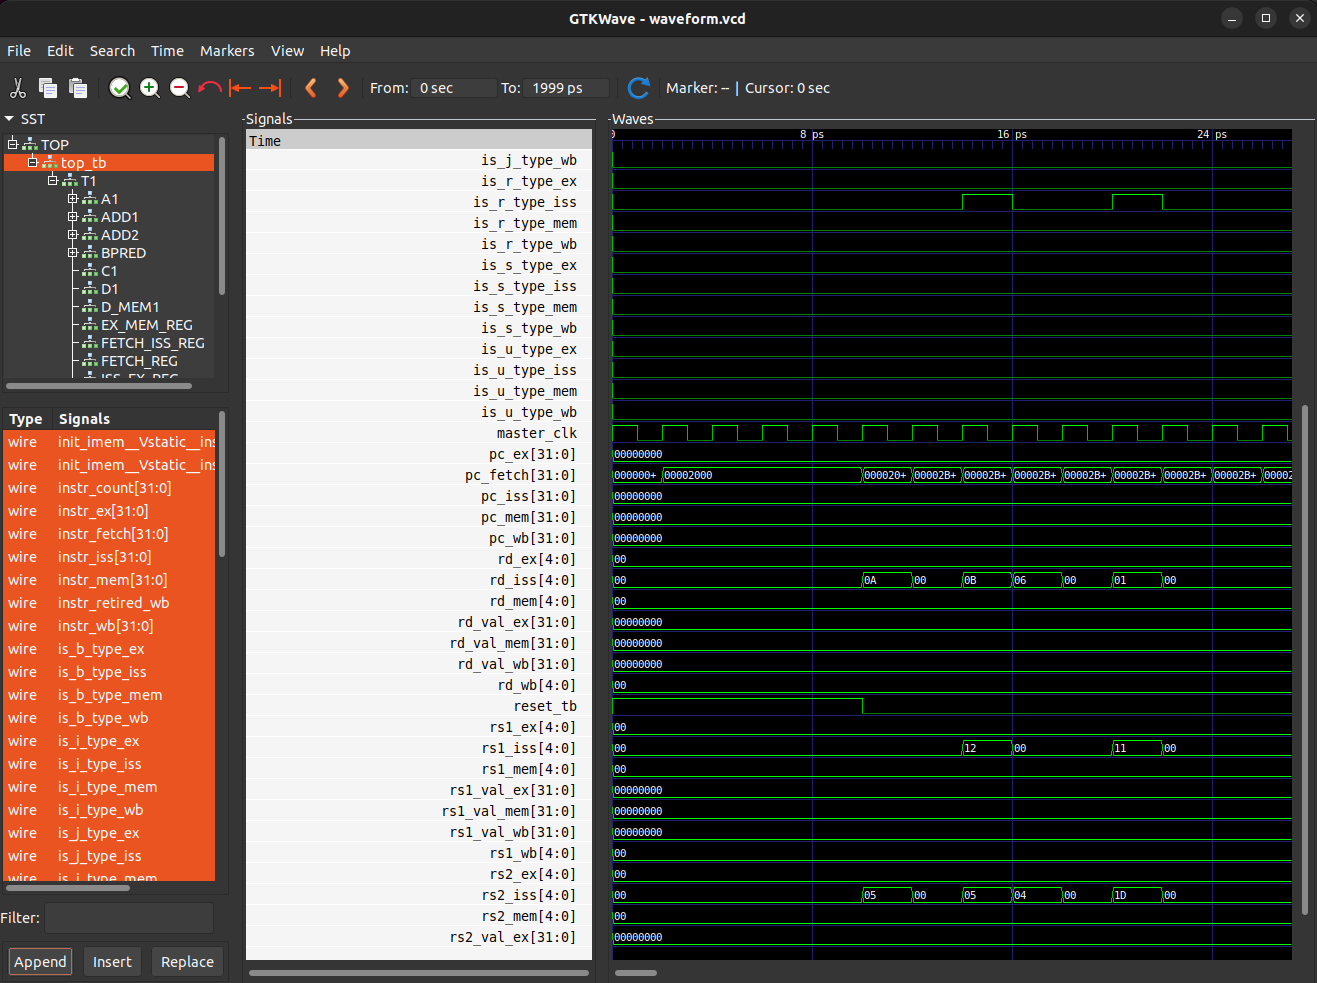
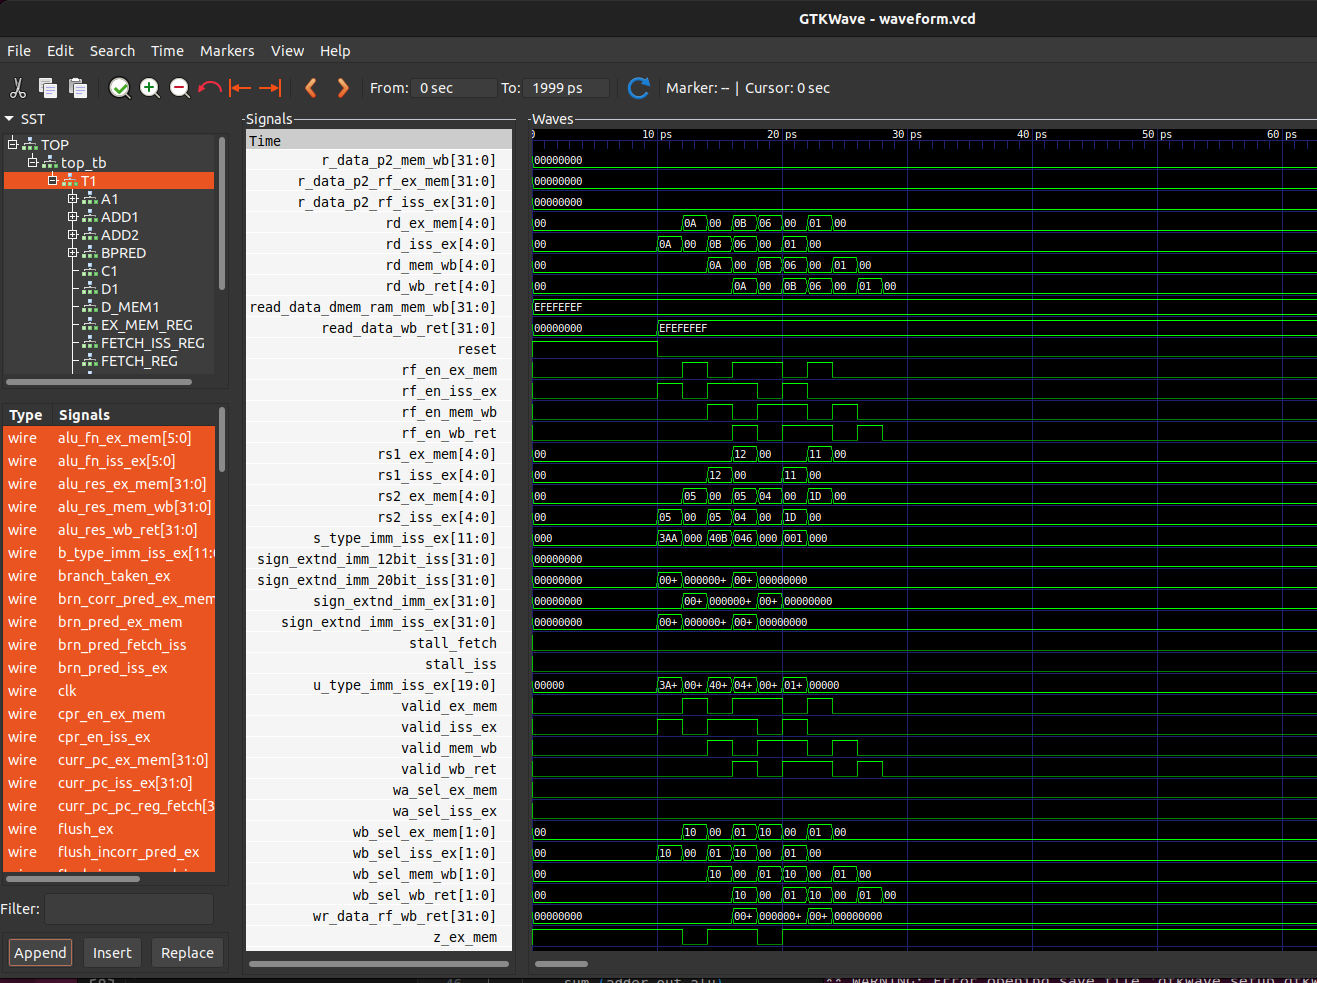
Gtkwave update

diff --git a/risc-v/verilator_testbench/README.md b/risc-v/verilator_testbench/README.md
@@ -1,6 +1,6 @@
 Instructions to run the Verilator/C++ testbench, useful for investigatng waveforms and block-to-block interactions is below.
 
-![](https://github.com/taylortempleton/SimpleCPU_RISC-V/blob/master/risc-v/docs/gtkwaveform.png)
+
 
 1. Generate a set of instructions for the CPU to run
 	* cd to hex_gen directory
@@ -23,4 +23,6 @@ Instructions to run the Verilator/C++ testbench, useful for investigatng wavefor
 	* View waves. Will automatically open gtkwave and show waveforms.
 	  * $ make waves
 	
+Example gtkwave output:
+![](https://github.com/taylortempleton/SimpleCPU_RISC-V/blob/master/risc-v/docs/gtkwaveform.png)
 
